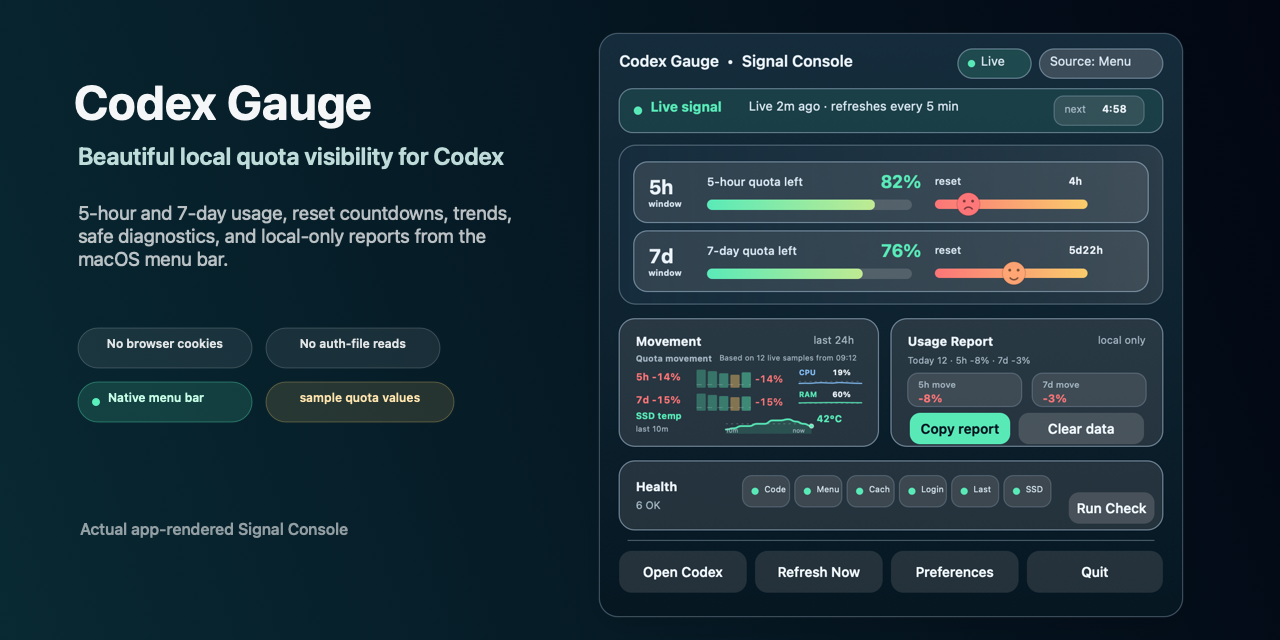
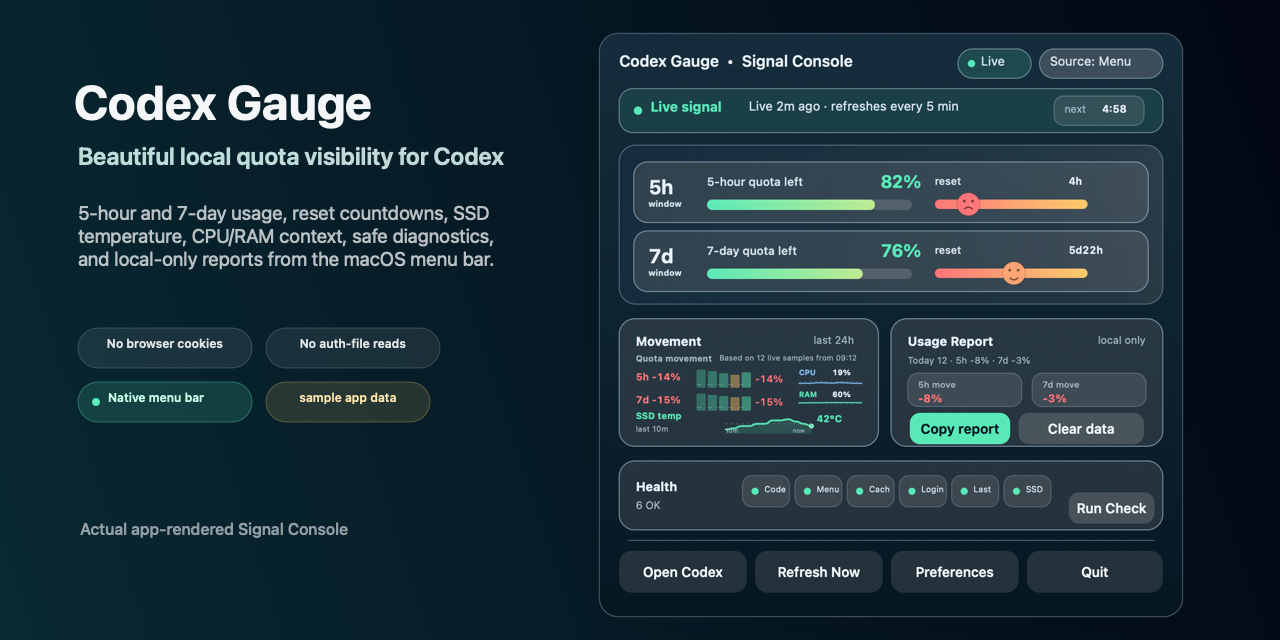
release: prepare codex gauge 0.9.0

Changed region(s): [[0.0625, 0.3125, 0.4062, 0.4375], [0.25, 0.5938, 0.375, 0.6562]]

diff --git a/script/generate_public_assets.swift b/script/generate_public_assets.swift
@@ -128,7 +128,7 @@ try writePNG(consoleOutputPath) {
     ])?.draw(in: NSBezierPath(rect: NSRect(origin: .zero, size: canvasSize)), angle: 25)
 
     drawText("Actual app-rendered Signal Console", in: NSRect(x: 72, y: 72, width: 440, height: 92), size: 37, weight: .bold, color: NSColor(calibratedRed: 0.08, green: 0.13, blue: 0.12, alpha: 1.0))
-    drawText("The same native view used by the menu bar popover. Public screenshot uses sample quota values, never personal data.", in: NSRect(x: 74, y: 176, width: 430, height: 70), size: 18, weight: .regular, color: NSColor(calibratedRed: 0.26, green: 0.32, blue: 0.30, alpha: 0.92))
+    drawText("The same native view used by the menu bar popover. Public screenshot uses sample quota values, plus sample reset, SSD, CPU, and RAM signals.", in: NSRect(x: 74, y: 176, width: 430, height: 74), size: 18, weight: .regular, color: NSColor(calibratedRed: 0.26, green: 0.32, blue: 0.30, alpha: 0.92))
 
     drawPill("Live source", rect: NSRect(x: 74, y: 280, width: 132, height: 38), fill: NSColor(calibratedRed: 0.12, green: 0.68, blue: 0.49, alpha: 0.13), stroke: NSColor(calibratedRed: 0.12, green: 0.68, blue: 0.49, alpha: 0.30), text: NSColor(calibratedRed: 0.08, green: 0.24, blue: 0.19, alpha: 1.0), dot: NSColor(calibratedRed: 0.12, green: 0.68, blue: 0.49, alpha: 1.0))
     drawPill("5h + 7d", rect: NSRect(x: 220, y: 280, width: 118, height: 38), fill: NSColor(calibratedRed: 0.95, green: 0.69, blue: 0.30, alpha: 0.15), stroke: NSColor(calibratedRed: 0.95, green: 0.69, blue: 0.30, alpha: 0.34), text: NSColor(calibratedRed: 0.25, green: 0.20, blue: 0.10, alpha: 1.0))
@@ -158,12 +158,12 @@ try writePNG(socialOutputPath) {
 
     drawText("Codex Gauge", in: NSRect(x: 74, y: 74, width: 430, height: 58), size: 48, weight: .bold, color: NSColor.white.withAlphaComponent(0.96))
     drawText("Beautiful local quota visibility for Codex", in: NSRect(x: 78, y: 142, width: 460, height: 36), size: 24, weight: .semibold, color: NSColor(calibratedRed: 0.74, green: 0.88, blue: 0.86, alpha: 0.95))
-    drawText("5-hour and 7-day usage, reset countdowns, trends, safe diagnostics, and local-only reports from the macOS menu bar.", in: NSRect(x: 78, y: 202, width: 450, height: 96), size: 19, weight: .regular, color: NSColor.white.withAlphaComponent(0.72))
+    drawText("5-hour and 7-day usage, reset countdowns, SSD temperature, CPU/RAM context, safe diagnostics, and local-only reports from the macOS menu bar.", in: NSRect(x: 78, y: 202, width: 450, height: 116), size: 19, weight: .regular, color: NSColor.white.withAlphaComponent(0.72))
 
     drawPill("No browser cookies", rect: NSRect(x: 78, y: 328, width: 174, height: 40), fill: NSColor.white.withAlphaComponent(0.08), stroke: NSColor.white.withAlphaComponent(0.17), text: NSColor.white.withAlphaComponent(0.88))
     drawPill("No auth-file reads", rect: NSRect(x: 266, y: 328, width: 174, height: 40), fill: NSColor.white.withAlphaComponent(0.08), stroke: NSColor.white.withAlphaComponent(0.17), text: NSColor.white.withAlphaComponent(0.88))
     drawPill("Native menu bar", rect: NSRect(x: 78, y: 382, width: 174, height: 40), fill: NSColor(calibratedRed: 0.31, green: 0.94, blue: 0.68, alpha: 0.14), stroke: NSColor(calibratedRed: 0.31, green: 0.94, blue: 0.68, alpha: 0.34), text: NSColor(calibratedRed: 0.74, green: 1.00, blue: 0.88, alpha: 1.0), dot: NSColor(calibratedRed: 0.31, green: 0.94, blue: 0.68, alpha: 1.0))
-    drawPill("sample quota values", rect: NSRect(x: 266, y: 382, width: 188, height: 40), fill: NSColor(calibratedRed: 1.00, green: 0.78, blue: 0.35, alpha: 0.13), stroke: NSColor(calibratedRed: 1.00, green: 0.78, blue: 0.35, alpha: 0.28), text: NSColor(calibratedRed: 1.00, green: 0.88, blue: 0.62, alpha: 1.0))
+    drawPill("sample app data", rect: NSRect(x: 266, y: 382, width: 164, height: 40), fill: NSColor(calibratedRed: 1.00, green: 0.78, blue: 0.35, alpha: 0.13), stroke: NSColor(calibratedRed: 1.00, green: 0.78, blue: 0.35, alpha: 0.28), text: NSColor(calibratedRed: 1.00, green: 0.88, blue: 0.62, alpha: 1.0))
 
     drawText("Actual app-rendered Signal Console", in: NSRect(x: 80, y: 520, width: 440, height: 24), size: 16, weight: .medium, color: NSColor.white.withAlphaComponent(0.56))
 

diff --git a/native/CodexGauge.swift b/native/CodexGauge.swift
@@ -1756,6 +1756,7 @@ private final class CodexGaugeApp: NSObject, NSApplicationDelegate {
     private var systemMetricsTimer: Timer?
     private var temperatureReadInFlight = false
     private var lastTemperaturePersistAt: Date?
+    private var lastSystemMetricPersistAt: Date?
     private var temperatureSamples: [TemperatureSample] = []
     private var systemMetricSamples: [SystemMetricSample] = []
     private var lastCPUTicks: [UInt64]?
@@ -1785,6 +1786,7 @@ private final class CodexGaugeApp: NSObject, NSApplicationDelegate {
     private let systemMetricSampleInterval: TimeInterval = 5
     private let systemMetricGraphWindow: TimeInterval = 10 * 60
     private let systemMetricRetentionWindow: TimeInterval = 24 * 60 * 60
+    private let systemMetricPersistInterval: TimeInterval = 60
     private let maxSystemMetricSamples = 24 * 60 * 60 / 5
     private let ssdTemperatureReadTimeout: TimeInterval = 0.8
     private let ssdTemperatureDisplayGraceInterval: TimeInterval = 10 * 60
@@ -1831,7 +1833,7 @@ private final class CodexGaugeApp: NSObject, NSApplicationDelegate {
     private lazy var resourcesDir = Bundle.main.resourcePath ?? FileManager.default.currentDirectoryPath
     private lazy var supportDir = applicationSupportDirectory()
     private lazy var pythonPath = infoString("CodexGaugePythonPath", fallback: "/usr/bin/python3")
-    private lazy var appVersion = infoString("CFBundleShortVersionString", fallback: "0.8.0")
+    private lazy var appVersion = infoString("CFBundleShortVersionString", fallback: "0.9.0")
     private lazy var releaseURL = infoString("CodexGaugeReleaseURL", fallback: "https://github.com/qingzhangeddie-byte/codex-gauge/releases")
     private lazy var usagePath = resolveUsagePath()
     private lazy var ssdTemperaturePath = URL(fileURLWithPath: resourcesDir, isDirectory: true)
@@ -2303,6 +2305,7 @@ private final class CodexGaugeApp: NSObject, NSApplicationDelegate {
         previousFiveHourLeft = nil
         temperatureSamples = []
         systemMetricSamples = []
+        lastSystemMetricPersistAt = nil
         clearSystemMetricHistoryAsync()
         clearTemperatureHistoryAsync()
         liveUnavailableSince = nil
@@ -4140,18 +4143,34 @@ private final class CodexGaugeApp: NSObject, NSApplicationDelegate {
     }
 
     private func appendSystemMetricSample(cpuPercent: Int?, ramPercent: Int?) {
+        let now = Date()
         let formatter = ISO8601DateFormatter()
         formatter.formatOptions = [.withInternetDateTime]
         let sample = SystemMetricSample(
-            time: formatter.string(from: Date()),
+            time: formatter.string(from: now),
             cpuPercent: cpuPercent,
             ramPercent: ramPercent,
             ok: cpuPercent != nil || ramPercent != nil
         )
         systemMetricSamples.append(sample)
         systemMetricSamples = retainedSystemMetricSamples(systemMetricSamples)
+        guard shouldPersistSystemMetricSamples(now: now) else {
+            return
+        }
         let samplesSnapshot = systemMetricSamples
         persistSystemMetricSamplesAsync(samplesSnapshot)
+    }
+
+    private func shouldPersistSystemMetricSamples(now: Date = Date()) -> Bool {
+        guard let lastSystemMetricPersistAt else {
+            self.lastSystemMetricPersistAt = now
+            return true
+        }
+        guard now.timeIntervalSince(lastSystemMetricPersistAt) >= systemMetricPersistInterval else {
+            return false
+        }
+        self.lastSystemMetricPersistAt = now
+        return true
     }
 
     private func persistSystemMetricSamplesAsync(_ samples: [SystemMetricSample]) {

diff --git a/tests/test_native_hardening.py b/tests/test_native_hardening.py
@@ -95,6 +95,8 @@ class NativeHardeningTests(unittest.TestCase):
         self.assertIn("systemMetricSampleInterval: TimeInterval = 5", source)
         self.assertIn("systemMetricGraphWindow: TimeInterval = 10 * 60", source)
         self.assertIn("systemMetricRetentionWindow: TimeInterval = 24 * 60 * 60", source)
+        self.assertIn("systemMetricPersistInterval: TimeInterval = 60", source)
+        self.assertIn("lastSystemMetricPersistAt", source)
         self.assertIn("maxSystemMetricSamples = 24 * 60 * 60 / 5", source)
         self.assertIn("systemMetricsHistoryPath,", source)
         self.assertIn("Clear local data", source)
@@ -102,14 +104,17 @@ class NativeHardeningTests(unittest.TestCase):
         self.assertIn("aggregated local CPU and RAM percentages", pathlib.Path("docs/PRIVACY.md").read_text(encoding="utf-8"))
 
         metric_storage = source.split("private func appendSystemMetricSample", 1)[1].split("private func readSystemMetricSamples", 1)[0]
+        self.assertIn("shouldPersistSystemMetricSamples(now: now)", metric_storage)
         self.assertNotIn("Keychain", metric_storage)
         self.assertNotIn("browser", metric_storage.lower())
         self.assertNotIn("auth.json", metric_storage)
 
+        self.assertIn("private func shouldPersistSystemMetricSamples(now: Date = Date()) -> Bool", source)
+
     def test_build_script_stamps_public_version_metadata(self):
         script = pathlib.Path("script/build_and_run.sh").read_text()
 
-        self.assertIn('APP_VERSION="0.8.0"', script)
+        self.assertIn('APP_VERSION="0.9.0"', script)
         self.assertIn('APP_BUILD="1"', script)
         self.assertIn('CFBundleShortVersionString</key>', script)
         self.assertIn('CFBundleVersion</key>', script)

diff --git a/tests/test_public_release_hygiene.py b/tests/test_public_release_hygiene.py
@@ -80,6 +80,7 @@ class PublicReleaseHygieneTests(unittest.TestCase):
         self.assertIn("v0.6.0", changelog)
         self.assertIn("v0.7.0", changelog)
         self.assertIn("v0.8.0", changelog)
+        self.assertIn("v0.9.0", changelog)
 
     def test_release_check_script_covers_public_release_gates(self):
         script_path = pathlib.Path("script/release_check.sh")
@@ -265,7 +266,7 @@ class PublicReleaseHygieneTests(unittest.TestCase):
         for phrase in [
             "git@github.com:qingzhangeddie-byte/codex-gauge.git",
             "git push -u origin main --tags",
-            "v0.8.0",
+            "v0.9.0",
             "repository social preview",
             "docs/assets/codex-gauge-social-preview.png",
             "private vulnerability reporting",

diff --git a/README.md b/README.md
@@ -5,7 +5,7 @@
 [![License](https://img.shields.io/github/license/qingzhangeddie-byte/codex-gauge)](LICENSE)
 ![macOS 13+](https://img.shields.io/badge/macOS-13%2B-0f766e)
 
-![Codex Gauge live menu bar](docs/assets/codex-gauge-menubar-live.png)
+![Codex Gauge live menu bar with quota, reset, SSD temperature, CPU, and RAM](docs/assets/codex-gauge-menubar-live.png)
 
 **A simple, safe macOS menu bar app to check Codex usage, track the Codex 5-hour limit, and watch your Codex 7-day quota at a glance.**
 
@@ -62,8 +62,8 @@ Search phrases this project is designed to answer naturally: **check Codex usage
   1 秒本地 SSD 温度历史会在 Movement 区域显示为平滑的 10 分钟温度曲线，并进行 24 小时本地保留
 - Local CPU and RAM percentages appear as a tiny CPU/RAM system strip in the menu bar and as pulse lines in Signal Console
   本地 CPU 和 RAM 百分比会以很小的 CPU/RAM 系统条显示在菜单栏里，并在 Signal Console 中显示为趋势脉冲线
-- 5-second local CPU/RAM samples keep a 10-minute movement view and 24-hour local CPU/RAM history
-  每 5 秒采样一次本地 CPU/RAM，只保留 10 分钟趋势视图和 24 小时本地 CPU/RAM 历史
+- 5-second local CPU/RAM samples keep a 10-minute movement view and 24-hour local CPU/RAM history, while disk writes are throttled to once per minute
+  每 5 秒采样一次本地 CPU/RAM，保留 10 分钟趋势视图和 24 小时本地 CPU/RAM 历史；写入本地历史文件最多每分钟一次
 - Custom Signal Console popover with status, quota, reset timing, trend, doctor checks, diagnostics, and actions
   自定义 Signal Console 弹出面板显示状态、额度、重置时间、趋势、诊断检查、安全诊断和操作入口；下拉菜单显示额度重置时间和上次刷新时间
 - Signal Console shows the actual next-refresh countdown, not a static refresh label
@@ -107,9 +107,9 @@ Search phrases this project is designed to answer naturally: **check Codex usage
 
 ![Codex Gauge Signal Console](docs/assets/codex-gauge-signal-console.png)
 
-This is an actual app-rendered Signal Console screenshot generated from the native macOS view. It uses sample quota values for the README; the installed app shows your local live quota values.
+This is an actual app-rendered Signal Console screenshot generated from the native macOS view. It uses sample quota values for the README; the installed app shows your local live quota, reset countdowns, optional SSD temperature, and aggregate CPU/RAM percentages.
 
-上面的 Signal Console 截图由真实 macOS 原生界面渲染生成，但使用 README 示例额度数值；安装后的 App 会显示你本机的实时额度。
+上面的 Signal Console 截图由真实 macOS 原生界面渲染生成，但使用 README 示例额度数值；安装后的 App 会显示你本机的实时额度、重置倒计时、可选 SSD 温度，以及本地 CPU/RAM 汇总百分比。
 
 ## Four-signal menu bar
 
@@ -180,7 +180,7 @@ The generated zip includes `CodexGauge.app`, `Install Codex Gauge.command`, and 
 | Refresh behavior | Adaptive refresh instead of constant polling: 5 minutes normally, 3 minutes when low, 2 minutes when critical, with quick retry after transient errors |
 | Preferences | Built-in refresh cadence, notifications, and launch-at-login controls |
 | Optional SSD temperature | Menu bar SSD chip can be hidden; diagnostics still label the sensor as Normal, Warm, or Hot, and the Signal Console can draw a local 10-minute curve with 24-hour local retention |
-| Local CPU/RAM context | Tiny menu-bar CPU/RAM system strip plus Signal Console movement pulses, stored only as 24-hour local percentage history |
+| Local CPU/RAM context | Tiny menu-bar CPU/RAM system strip plus Signal Console movement pulses, stored only as 24-hour local percentage history and persisted at most once per minute |
 | Notifications | Opt-in alerts for the moments users actually care about |
 | Signal Console | Explains whether data is live, cached, snapshot-based, or unavailable |
 | Setup Doctor | Local checks for Codex app, helper, live data, LaunchAgent, and notifications |
@@ -214,7 +214,7 @@ For live Codex quota, it first talks to the local Codex app-server. Each success
 
 It does **not** read browser cookies, does **not** read `~/.codex/auth.json`, and does **not** scan unrelated project folders, browser profiles, or Keychain.
 
-The CPU/RAM display is local CPU and RAM percentages only. Codex Gauge stores no process list, app names, command lines, or file paths for that system strip.
+The CPU/RAM display is local CPU and RAM percentages only. Codex Gauge samples it every 5 seconds for the live strip, persists the bounded history at most once per minute, and stores no process list, app names, command lines, or file paths.
 
 Important limitation: the Codex app-server path can start or refresh the Codex 5-hour window because it talks to the same local Codex service used by the Codex desktop app.
 
@@ -266,7 +266,7 @@ The plist should reference `codex_status.py`, not your source checkout.
 |---|---|
 | Codex live quota | Local Codex app-server |
 | Codex fallback quota | Recent `~/.codex/sessions` `rate_limits` metadata, recursively discovered, bounded by file count and tail size, labeled Snapshot |
-| CPU/RAM usage | Aggregated local macOS CPU and RAM percentages only, retained for 24 hours in Application Support |
+| CPU/RAM usage | Aggregated local macOS CPU and RAM percentages only, retained for 24 hours in Application Support, persisted at most once per minute |
 | Menu bar persistence | `~/Library/LaunchAgents/app.codexgauge.menubar.plist` |
 | Runtime logs | `~/Library/Application Support/CodexGauge`, rotated at 512 KB |
 

diff --git a/README.zh-CN.md b/README.zh-CN.md
@@ -1,6 +1,6 @@
 # Codex Gauge
 
-![Codex Gauge live menu bar](docs/assets/codex-gauge-menubar-live.png)
+![Codex Gauge 菜单栏：额度、重置、SSD 温度、CPU 和 RAM](docs/assets/codex-gauge-menubar-live.png)
 
 [English](README.md) | 中文说明
 
@@ -37,7 +37,7 @@ bash install.sh
 - 下拉菜单、诊断和 Setup Doctor 会把 SSD 温度标注为 Normal、Warm 或 Hot
 - 1 秒本地 SSD 温度历史会在 Movement 区域显示为平滑的 10 分钟温度曲线，并进行 24 小时本地保留
 - 本地 CPU 和 RAM 百分比会以很小的 CPU/RAM 系统条显示在菜单栏里，并在 Signal Console 中显示为趋势脉冲线
-- 每 5 秒采样一次本地 CPU/RAM，只保留 10 分钟趋势视图和 24 小时本地 CPU/RAM 历史
+- 每 5 秒采样一次本地 CPU/RAM，保留 10 分钟趋势视图和 24 小时本地 CPU/RAM 历史；写入本地历史文件最多每分钟一次
 - 自定义 Signal Console 弹出面板显示状态、额度、重置时间、趋势、诊断检查、安全诊断和操作入口
 - Signal Console 显示真实的下次刷新倒计时，不再只是静态刷新标签
 - 三套可选主题：默认 Paper Console，并提供 Signal Dark 和 Mono Graphite
@@ -63,7 +63,7 @@ bash install.sh
 
 ![Codex Gauge Signal Console](docs/assets/codex-gauge-signal-console.png)
 
-上面的 Signal Console 截图由真实 macOS 原生界面渲染生成，但使用 README 示例额度数值；安装后的 App 会显示你本机的实时额度。
+上面的 Signal Console 截图由真实 macOS 原生界面渲染生成，但使用 README 示例额度数值；安装后的 App 会显示你本机的实时额度、重置倒计时、可选 SSD 温度，以及本地 CPU/RAM 汇总百分比。
 
 ## 四条菜单栏信号
 
@@ -118,7 +118,7 @@ open native/dist/release
 | 刷新策略 | 根据额度余量自适应刷新：正常 5 分钟，偏低 3 分钟，严重偏低 2 分钟，临时错误后快速重试 |
 | 偏好设置 | 内置刷新频率、通知、登录时启动控制 |
 | 可选 SSD 温度 | 菜单栏 SSD 温度 chip 可以隐藏；诊断里仍会标注 Normal、Warm 或 Hot；Signal Console 会显示本地 10 分钟温度曲线，并进行 24 小时本地保留 |
-| 本地 CPU/RAM 状态 | 菜单栏显示极小 CPU/RAM 系统条，Signal Console 显示趋势脉冲，只保留 24 小时本地百分比历史 |
+| 本地 CPU/RAM 状态 | 菜单栏显示极小 CPU/RAM 系统条，Signal Console 显示趋势脉冲，只保留 24 小时本地百分比历史，并且最多每分钟写入一次 |
 | 通知 | 只在用户主动开启后提醒关键额度状态 |
 | Signal Console | 直接说明数据是实时、缓存、快照还是不可用 |
 | Setup Doctor | 检查 Codex App、helper、实时数据、LaunchAgent 和通知权限 |

diff --git a/docs/PUBLISHING.md b/docs/PUBLISHING.md
@@ -59,7 +59,7 @@ A Homebrew cask is a good public install path after signing and notarization. Ke
 2. Confirm live data is labeled Live and fallback data is labeled Snapshot.
 3. Confirm runtime logs are rotated locally and not packaged.
 4. Run `./script/package_release.sh` and verify the zip plus checksum.
-5. Create tag `v0.8.0` on the public clean-history commit.
+5. Create tag `v0.9.0` on the public clean-history commit.
 6. Sign and notarize with external credentials.
 7. Publish a zipped app bundle or DMG.
 8. Update the Homebrew cask checksum.
@@ -70,7 +70,7 @@ A Homebrew cask is a good public install path after signing and notarization. Ke
 - Point the clean repo remote at `git@github.com:qingzhangeddie-byte/codex-gauge.git`.
 - Push with `git push -u origin main --tags` only after the GitHub repo is a fresh non-fork repo.
 - Verify `git clone https://github.com/qingzhangeddie-byte/codex-gauge.git` works before announcing.
-- Create the GitHub Release for `v0.8.0`; the README release badge should not point at an older identity.
+- Create the GitHub Release for `v0.9.0`; the README release badge should not point at an older identity.
 - Set GitHub About description: `Unofficial macOS menu bar app showing your OpenAI Codex usage: 5-hour and 7-day rate-limit quota at a glance`.
 - Set GitHub topics: `macos`, `menubar`, `menu-bar-app`, `codex`, `openai`, `swift`, `rate-limit`, `usage-monitor`, `developer-tools`.
 - Upload `docs/assets/codex-gauge-social-preview.png` as the repository social preview.

diff --git a/docs/PRIVACY.md b/docs/PRIVACY.md
@@ -10,7 +10,7 @@ The native menu bar app:
 - falls back to bounded recent Codex session `rate_limits` metadata when app-server is unavailable from a background LaunchAgent, and labels that data as Snapshot;
 - bundles its helper at `CodexGauge.app/Contents/Resources/codex_status.py`;
 - optionally reads local SSD/NAND temperature from macOS IOReport when the sensor is exposed, showing only the temperature/status and no disk serials or file contents;
-- samples CPU/RAM through macOS host statistics, storing only aggregated local CPU and RAM percentages with timestamps for the menu bar and 10-minute Signal Console movement view;
+- samples CPU/RAM through macOS host statistics, storing only aggregated local CPU and RAM percentages with timestamps for the menu bar and 10-minute Signal Console movement view, with bounded history persisted at most once per minute;
 - installs a per-user LaunchAgent at `~/Library/LaunchAgents/app.codexgauge.menubar.plist` so macOS keeps the menu bar process running;
 - writes locally rotated runtime logs to `~/Library/Application Support/CodexGauge`;
 - does not read browser cookies;

diff --git a/CHANGELOG.md b/CHANGELOG.md
@@ -2,6 +2,10 @@
 
 ## Unreleased
 
+- Nothing yet.
+
+## v0.9.0 - 2026-06-17
+
 - Added a first-run setup surface that explains the local-only model and links to Codex and Setup Doctor.
 - Restyled Preferences and Setup Doctor with the selected Signal Console theme.
 - Added explicit Cache, Snapshot, and Open state badges to non-live menu bar states.
@@ -9,6 +13,7 @@
 - Added local CPU/RAM percentages to the menu bar and Signal Console, with bounded 24-hour local metric history.
 - Enlarged the menu bar CPU/RAM pod so the system metrics are readable at real menu-bar size.
 - Changed reset countdown labels to use progressive units: minutes under an hour, hours under a day, and days plus hours for longer resets.
+- Reduced CPU/RAM history disk churn: live samples still update every 5 seconds, but JSON persistence is throttled to once per minute and flushed on quit.
 
 ## v0.8.0 - 2026-06-13
 
